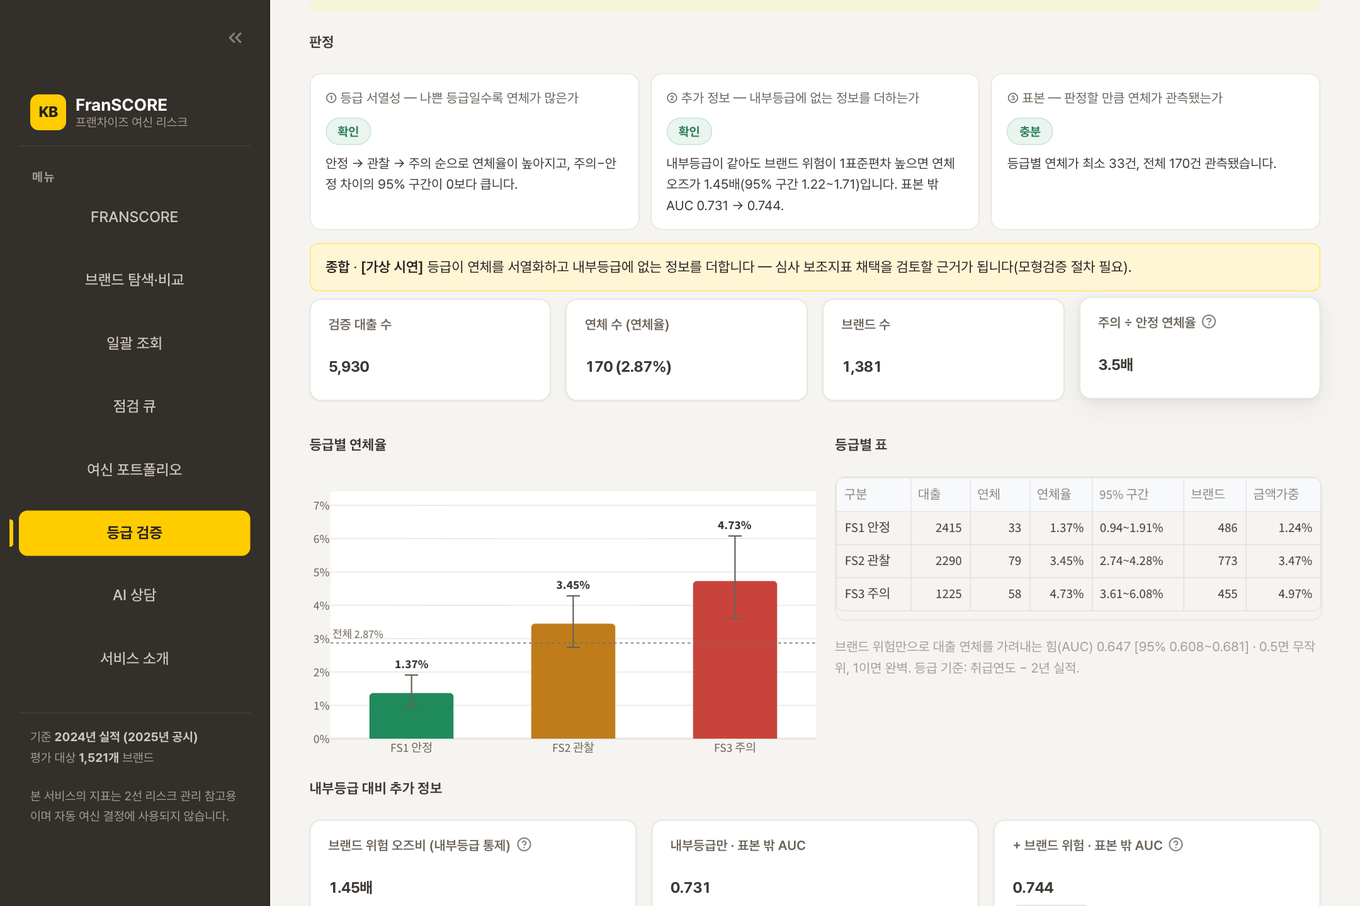
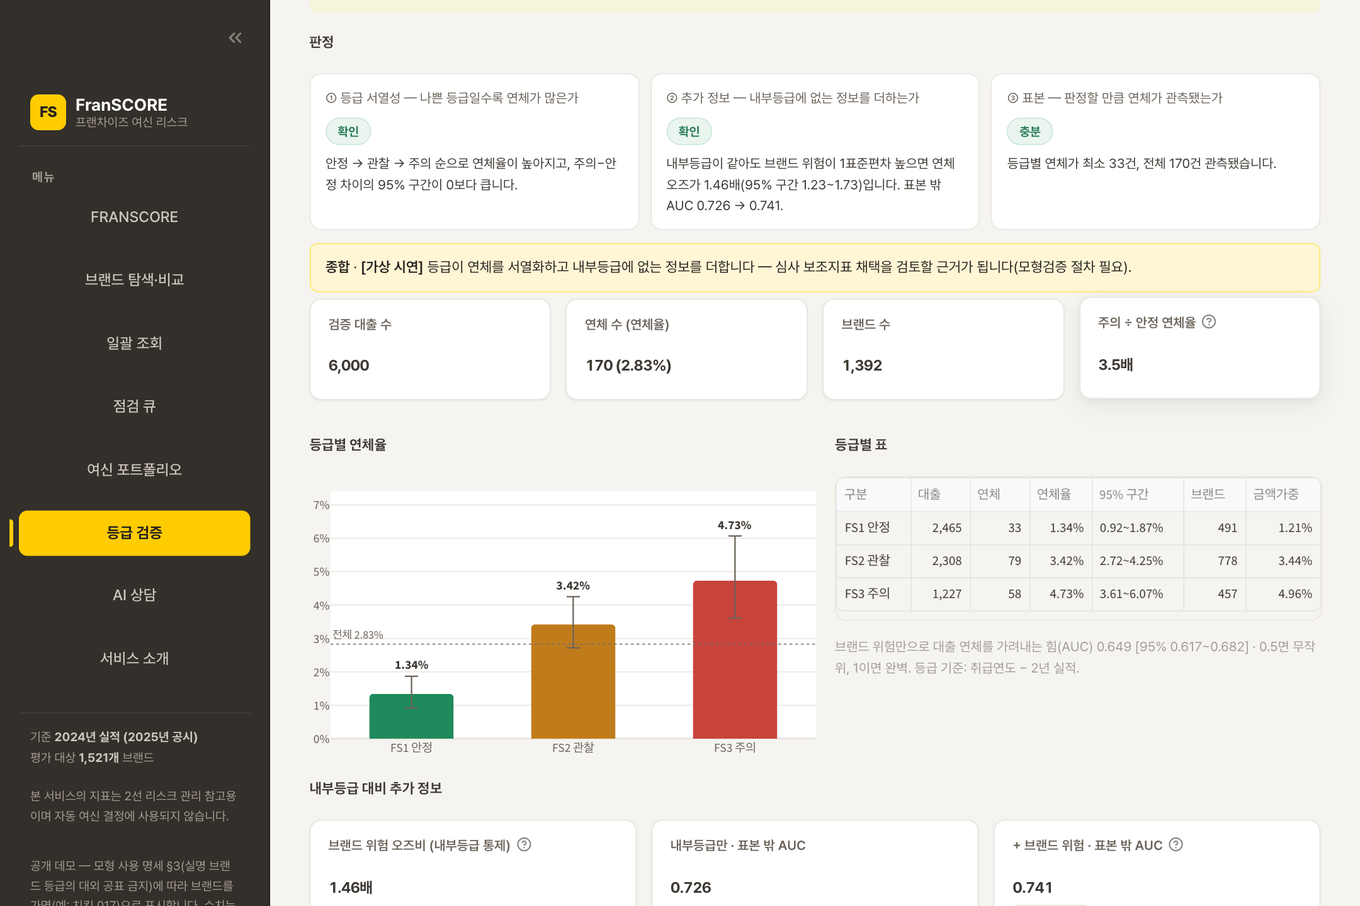
README·문서 최신화 — 월별 폐점 신호, 가명 공개 데모, 화면 교체
- README: 공시 사이를 메우는 월별 폐점 신호 절(공시와 폐점률 순위상관 0.734·순증감 0.843,
  매칭 완전성 98.3%), 가명 고지, 실명 브랜드 언급 제거, 월 1회 갱신 절차, 키 넣는 곳
- 스크린샷 전부 공개 데모(가명) 화면으로 교체, 월별 개점·폐점 그림 추가
- RESULTS ⑤ 월별 신호 타당도·데이터 출처·한계, TECH §8-6·화면 8종·결함 158~162·한계·로드맵,
  OPERATIONS 갱신 절차·월별 폐점 경보, 모형 사용 명세 예시 선택 규칙
- 문서 수치 대조에 월별 신호 타당도 18건 추가 (186 → 204건)

diff --git a/tools/check_doc_numbers.py b/tools/check_doc_numbers.py
@@ -642,6 +642,29 @@ def main() -> int:
     need("뉴스 추출 정확도 규칙(전체)", f"{le['all']['rules']['accuracy']:.3f}", "README")
     need("뉴스 정답셋 건수", f"{le['all']['rules']['n']}건", "README")
 
+    # 월별 신호의 타당도는 README 헤드라인에도 오른다. 신호표를 새로 만들면(월 1회) 판정 분포는
+    # 바뀌지만 이 값들은 validate_localdata.py 를 다시 돌릴 때만 바뀐다 — 그래서 분포는 문서에
+    # 적지 않고, 타당도만 대조한다.
+    lv_p = OUT / "localdata_validation.json"
+    if lv_p.exists():
+        head("⑪ 월별 폐점 신호 — 인허가 ↔ 공시 동시 타당도 (tools/validate_localdata.py)")
+        lv = json.loads(lv_p.read_text(encoding="utf-8"))
+        years = sorted(lv["years"], key=int)
+        for y in years:
+            cv, gv = lv["years"][y]["close_vs_churn"], lv["years"][y]["growth_vs_growth"]
+            docs = ("RESULTS", "TECH", "README") if y == years[-1] else ("RESULTS", "TECH")
+            need(f"{y} 폐점률 순위상관", f"{cv['rho']:.3f}", *docs)
+            need(f"{y} 폐점률 순위상관 CI", f"[{cv['ci_lo']:.3f}, {cv['ci_hi']:.3f}]", "RESULTS", "TECH")
+            need(f"{y} 순증감 순위상관", f"{gv['rho']:.3f}", *docs)
+            need(f"{y} 순증감 순위상관 CI", f"[{gv['ci_lo']:.3f}, {gv['ci_hi']:.3f}]", "RESULTS", "TECH")
+            need(f"{y} 폐점률 비교 브랜드 수", f"{cv['n']:,}개", *docs)
+            need(f"{y} 순증감 비교 브랜드 수", f"{gv['n']:,}개", "RESULTS", "TECH")
+            need(f"{y} 매칭 완전성 중앙값", f"{100 * lv['years'][y]['coverage_median']:.1f}%", *docs)
+        need("인허가 기록 수", thou(lv["n_records"]), "RESULTS", "TECH")
+        need("인허가 기록 수(README 표기)", f"{lv['n_records'] // 10_000:,}만여", "README")
+        need("인허가 매칭 브랜드 수", thou(lv["n_brands_matched"]), "RESULTS", "TECH")
+        need("인허가 매칭 기록 수", thou(lv["n_matched"]), "TECH")
+
     need("OPS 자동대조 건수", f"{_checked + 1}건", "OPS", "README")   # 이 줄 자신을 포함한 수
 
     head("결과")

diff --git a/docs/TECHNICAL_REPORT.md b/docs/TECHNICAL_REPORT.md
@@ -32,7 +32,7 @@ python tools/check_doc_numbers.py
 | 제2부 | 데이터 — 원천 9종 · 엔티티 정합 · 패널 · 커버리지 | 기술 적정성 |
 | 제3부 | 모형 — 라벨 · 피처 · 학습 · 보정 · 등급 · 검증 | 기술 적정성 / 실현 가능성 |
 | 제4부 | AI 활용 — 무엇에 쓰고 무엇에 안 쓰는가 · 정량 평가 | 아이디어의 창의성 및 효과 |
-| 제5부 | 제품 — 화면 5종 · 디자인 시스템 · 접근성 | 활용 가능성 |
+| 제5부 | 제품 — 화면 8종 · 디자인 시스템 · 접근성 | 활용 가능성 |
 | 제6부 | 운영 — 파이프라인 · 배치 · 배포 · 폐쇄망 · 사용 명세 | 개발 계획의 구체성 |
 | 제7부 | 품질 체계 — 스스로 잡은 결함 전수 기록 | 개발 과정의 신뢰성 |
 | 제8부 | 한계 · 로드맵 | 정직성 |
@@ -440,6 +440,39 @@ X_ij = √ρ_B · Z  +  √(ρ_W − ρ_B) · Y_i  +  √(1 − ρ_W) · ε_ij
 
 이 "업종 대비 초과 하락" 구분이 중요하다. **냉면 수요가 준 것인가, 이 브랜드만
 밀리는가** — 여신 판단에서 완전히 다른 이야기다.
+
+### 8-6. 지방행정 인허가 — 연 1회 공시 사이를 메우는 월별 신호
+
+공정위 공시는 연 1회이고 1~2년 늦다(2024년 실적이 2025년 정보공개서로 나온다). 그 사이에
+점포가 빠지는 일은 지자체 식품접객업 인허가에 먼저 찍힌다 — 가맹점도 영업하려면 일반음식점·
+휴게음식점·제과점영업 신고를 하고, 문을 닫으면 폐업 신고를 한다.
+
+| 항목 | 내용 |
+|---|---|
+| 원천 | `file.localdata.go.kr` 전국 파일 3종 — 일반음식점·휴게음식점·제과점영업 (매일 갱신, 2일 전 기준) |
+| 규모 | 인허가 기록 **3,015,391건** → 브랜드에 이어진 기록 234,963건 · **1,460개 브랜드** |
+| 매칭 | 사업장명을 정규화해 브랜드명·통칭과 대조(지점명·법인 표기·쇼핑몰 이름 제거, 동명 브랜드는 가맹점이 많은 쪽) — `src/localdata.py` `match_brands` |
+| 명의 이전 | 같은 주소에서 90일 안에 다시 연 폐업은 폐점이 아니라 명의 이전으로 센다 |
+| 판정 | 최근 3개월 폐업을 전년 같은 3개월과 비교한다. 두 기간 폐업 합 중 올해 몫이 점포 규모 비율을 따르는지 보는 **조건부 이항검정**(두 포아송 비율 비교) — 전년 건수의 표본오차까지 반영한다. 단측 p<0.05 이고 폐업 3건 이상이면 '악화', 반대쪽이면 '개선', 관측 점포 10곳 미만이면 '판단보류' |
+| 일괄 정리 | 직전 달 영업 점포의 30% 이상(최소 20곳)이 한 달에 폐업 처리되면 '악화' 대신 **'확인 필요'** — 상호 변경·재인허가·지자체 일괄 정리일 수 있다 (결함 158) |
+
+**공시와 같은 것을 재는가** — 빠르기만 하고 엉뚱한 것을 재면 쓸모가 없다. 그래서 공시가 있는
+해에 브랜드별로 맞대 봤다(`tools/validate_localdata.py`, 두 원천 모두 가맹점 30곳 이상).
+
+| 실적연도 | 폐점률 순위상관 (인허가 폐업 vs 공시 계약종료+해지) | 순증감 순위상관 | 매칭 완전성 중앙값 |
+|---|---|---|---|
+| 2023 | 0.666 [0.607, 0.719] · 612개 | 0.854 [0.822, 0.881] · 602개 | 94.9% |
+| **2024** | **0.734** [0.689, 0.773] · 725개 | **0.843** [0.810, 0.870] · 725개 | 98.3% |
+
+순증감은 두 해 모두 0.84 이상으로 거의 같은 것을 잰다. 폐점률은 0.67~0.73 — 인허가 폐업과
+가맹계약 종료는 같은 사건이 아니고(계약만 끝나고 독립 영업을 이어 가는 점포, 계약은 남은 채
+휴업하는 점포), 그 차이만큼 낮다. 매칭 완전성(인허가에서 찾은 연말 영업 점포 ÷ 공시 가맹점 수)
+중앙값이 95~98% 라 매칭이 브랜드를 크게 빠뜨리지 않는다.
+
+**쓰는 곳** — 점수에는 넣지 않는다(점수는 연간 공시 모형이고, 이 신호는 검증 표본이 다르다).
+브랜드 상세·참고의견서에 판정과 근거 문장을, 공시 추이 탭에 최근 24개월 개점·폐점 막대를 보이고,
+탐색 화면의 '월별 폐점 악화만' 필터·일괄 조회 열·AI 상담 사실에 쓴다. **점검 큐는 '악화'·'확인 필요'
+브랜드를 등급과 무관하게 올린다** — 공시를 1~2년 기다리지 않고 확인할 대상이다.
 
 ---
 
@@ -1935,15 +1968,18 @@ float32 + char 피처 상한 40,000. **91MB → 67MB**, 상주 263MB → 236MB.
 
 # 제5부 · 제품
 
-## 35. 화면 5종
+## 35. 화면 8종
 
-<https://kb-franscore.streamlit.app>
+<https://kb-franscore.streamlit.app> — 공개 데모는 브랜드를 가명으로 표시한다(§41, `src/public.py`).
 
 | 화면 | 모듈 | 무엇을 하는가 |
 |---|---|---|
-| **FRANSCORE** | `views/franscore.py` | 한눈에 보기 + 브랜드 조회 + 상세 진단 |
-| **점검 큐** | `views/queue.py` | 담당자 배정·처리상태·확인 메모 |
-| **여신 포트폴리오** | `views/portfolio.py` | 집중도·EL·스트레스·꼬리 기여 |
+| **FRANSCORE** | `views/franscore.py` | 한눈에 보기 + 브랜드 조회 + 상세 진단 + 참고의견서 |
+| **브랜드 탐색·비교** | `views/explore.py` | 업종·등급·규모·중대 신호·월별 폐점 신호로 거르고 2~4개를 나란히 비교 |
+| **일괄 조회** | `views/batch.py` + `batch.py` | 신청 목록 → 브랜드 매칭 → 등급·확인 서류, 사업자번호가 있으면 국세청 휴·폐업 |
+| **점검 큐** | `views/queue.py` | 담당자 배정·처리상태·확인 메모·변경 이력. 중대 신호·월별 폐점 신호 브랜드는 등급 무관 편입 |
+| **여신 포트폴리오** | `views/portfolio.py` + `loanbook.py` | 집중도·EL·스트레스·꼬리 기여, 행내 장부 업로드 |
+| **등급 검증** | `views/validate.py` + `delinquency.py` | 은행 연체 자료로 서열성·내부등급 대비 추가 정보 판정 |
 | **AI 상담** | `views/assistant.py` + `chat.py` | 자연어 질의 |
 | **서비스 소개** | `views/about.py` | 두 층 구조 (일반 / 심사역) |
 
@@ -2449,7 +2485,7 @@ python tools/snapshot_drift.py --year 2025
 
 ---
 
-## 43. 스스로 잡은 결함 — 전수 기록 (결함 157건)
+## 43. 스스로 잡은 결함 — 전수 기록 (결함 162건)
 
 아래는 **개발 중 실측으로 발견해 수정한 결함**의 전수 목록이다. 외부 지적이 아니라
 스스로 찾은 것이 대부분이며, 전부 커밋 이력에 남아 있다.
@@ -2641,7 +2677,7 @@ python tools/snapshot_drift.py --year 2025
 | 134 | 두 브랜드 비교 질문의 답변이 **매번 절단** | `finishReason=MAX_TOKENS`, 본문 7,964자를 쓰다 8,000 토큰 예산에서 잘렸다. 잘린 답은 폴백으로 떨어져 화면에 답이 아예 안 나갔다 | 상한을 16,000 으로. ⚠ **무료 일일 한도 소진으로 이 건은 실호출 재확인을 못 했다** — 절단 사실만 실측이고 해소는 미검증이다 |
 | 135 | **평가한 모델을 새 키로는 아예 못 쓴다** — 신규 프로젝트에 제공 중단 | 새로 만든 GCP 프로젝트의 키는 `llm.model` 에 404(*"no longer available to new users"*), 같은 키가 별칭 모델에는 200(실측 2건). 핀을 별칭으로 바꾸면 **평가한 모델과 운영 모델이 갈리고**(별칭의 실체는 시점마다 다르다 — 실측 시점에도 2.5-flash 가 아니었다), 그대로 두면 새 키 사용자는 상담을 못 쓴다 | 둘 중 하나를 고르는 대신 **순서**를 뒀다. 평가 모델을 먼저 시도하고 **등록된 키 전부가 '이 모델 없음'일 때만** 대체 모델로 내려간다(한도·인증 실패로는 안 내려간다). 대체 모델이 답하면 화면이 **어느 모델이 썼는지·성능 근거는 평가 모델 것임**을 밝힌다 |
 
-### J. 여신 실무 관점 재점검 (22건)
+### J. 여신 실무 관점 재점검 (27건)
 
 > 공모전 이후, 은행 여신 실무자가 이 서비스를 실제로 쓴다고 가정하고 다시 훑어 나온 것들이다.
 > 검증 지표는 멀쩡한데 **실무자가 화면을 보자마자 신뢰를 잃는** 종류가 많았다 — 색이 등급과
@@ -2671,6 +2707,11 @@ python tools/snapshot_drift.py --year 2025
 | 155 | **배포 뒤 화면마다 코드 버전이 섞였다** — 목록 머리글은 새 판, 같은 화면의 공통 모듈은 옛 판 | Streamlit Cloud 가 푸시 뒤 진입 스크립트만 새로 읽고 import 된 모듈은 일부만 새로 읽었다. 로컬·테스트는 매번 새 프로세스라 재현되지 않는다 | 코드 서명(src 최종 수정 시각)이 바뀌면 src.* 를 sys.modules 에서 비워 새로 읽음(`src/app.py`), 별도 프로세스 테스트 |
 | 156 | **공개 데모·README 가 자기 명세를 어겼다** — 모형 사용 명세 §3 은 실명 브랜드 등급의 대외 공표를 금지하는데, 공개 앱과 README 스크린샷에 소규모 실명 브랜드가 '주의 32.7%'로 떴다 | 명세는 은행 내부 쓰임을 전제로 썼고, 공개 배포가 곧 대외 공표라는 점을 놓쳤다. 고지문만 붙여 두었다 | 공개 배포는 가명 사본을 읽게 함(`src/public.py`, 설정 경로 한 곳에서 전환) · 로고·기사·검색 색인 제외 · 사본과 공개 모드 전 화면 누출 검사(`tests/test_public.py`) · 문서의 실명 위험 표기도 가명으로 |
 | 157 | 일괄 조회에서 형식이 틀린 사업자번호가 한 건만 섞여도 **국세청 키 안내가 사라짐** | 안내 조건이 '모든 행이 키 없음'이었다. 배포 앱에 실제 목록을 올려 보고 발견 | 키 없어 못 물어본 번호가 하나라도 있으면 안내 |
+| 158 | 월별 폐점 신호가 **행정 일괄 정리를 '악화'로 판정** — 영업 184곳 브랜드가 한 달에 132곳 폐업 | 전국 신호표의 '악화' 목록을 월별 원자료와 대조. 점포가 한 달에 70% 닫히는 일보다 상호 변경·재인허가·일괄 정리일 가능성이 크다 | 직전 달 영업의 30% 이상(최소 20곳)이 한 달에 폐업 처리되면 '확인 필요' + 원자료 확인 안내, 테스트 |
+| 159 | 공시가 한두 해뿐인 브랜드(신규·공시 공백 보정)의 공시 추이 **연도 축이 '2,023.2'** | 점이 적으면 차트 도구가 연속 축으로 보고 소수 눈금을 찍는다. 공개 데모 스크린샷을 다시 찍다 발견 | 연도 축 정수 눈금·양옆 여백(`year_axis`) — 공시 추이·본부 재무·브랜드 비교 |
+| 160 | **공개 모드 예시가 가맹점 수 최상위 브랜드** — 가명이어도 '커피 3,325곳'이면 누구인지 안다 | 예시를 '가맹점 많은 순'으로 골랐다. 실명 목록 검사는 이름만 보므로 통과했다 | 예시·기본 비교를 가맹점 100~499곳 구간에서, 등급을 번갈아 고름 + 테스트 |
+| 161 | 점검 큐 안내문이 "**변경 이력도 없습니다**" — 바로 아래에 변경 이력이 있다 | 변경 이력을 추가하고 안내문을 고치지 않았다 | '변경 이력은 쌓이지만 인증·결재 연동은 없다'로 정정 |
+| 162 | 브랜드 리스크 게이지의 **0%·100% 눈금이 잘려** '5 –', '– 1' 로 보임 | 좌우 여백 12px. 공개 데모 스크린샷 확대 | 여백을 넓힘 |
 
 ---
 
@@ -2827,6 +2868,7 @@ fold 척도 문제를 깨끗이 없애고 Spiegelhalter 도 통과한다. 그러
 | 검색수요 | 292개 브랜드 | 네이버 한도 내 일간 확장 중 |
 | 뉴스 | 9개 브랜드 | 〃 |
 | 로고 | 42.4% / 점포가중 67.7% | Gemini 할당량 (프로젝트 단위) |
+| 월별 폐점 신호 | 사업장명 매칭 — 매칭 완전성 중앙값 98.3%(브랜드별 편차 있음), 식품접객업만 | 상호에 브랜드명이 없는 가맹점은 빠진다 — 정보공개서 원문의 가맹점 주소 목록으로 매칭하면 해소 |
 
 ### 47-2. 모형
 
@@ -2841,8 +2883,8 @@ fold 척도 문제를 깨끗이 없애고 Spiegelhalter 도 통과한다. 그러
 
 ### 47-3. 제품
 
-- 점검 큐 상태는 **클라우드 재배포 시 초기화**된다 (인증·이력·결재 연동 없음).
-  공식 기록은 엑셀 반출로 넘겨야 한다.
+- 점검 큐 상태와 변경 이력은 로컬에서는 파일, 공개 배포에서는 **브라우저 세션에만** 남는다
+  (사용자 인증·결재 연동 없음). 공식 기록은 엑셀 반출로 넘겨야 한다.
 - 여신 익스포저는 **공시 창업비용 × 두 가정**의 추정치다. 절대 금액이 아니라
   **구조를 보는 용도**다.
 - 자동 여신 결정에 사용하지 않는다 (금지 용도).
@@ -2876,11 +2918,11 @@ fold 척도 문제를 깨끗이 없애고 Spiegelhalter 도 통과한다. 그러
 | 부도·연체 라벨 | **검증 절차 구현됨** — 등급 검증 화면(`src/delinquency.py`)으로 먼저 확인하고, 통과하면 라벨을 부도로 교체해 PD 라 부를 수 있다 |
 | 가맹점-브랜드 매핑 | 차주 단위 상관 모형의 분모가 실측이 됨 |
 
-### 48-3. 추가 데이터 경로 (조사 완료, 미실행)
+### 48-3. 추가 데이터 경로
 
 | 경로 | 상태 |
 |---|---|
-| `file.localdata.go.kr` 인허가 (전국 일반음식점 697.6MB·휴게음식점 207.8MB, 매일 갱신) | **모듈 구현** (`src/localdata.py`) — 지역 4곳 실측(19만 건)으로 매칭 정밀도 확인. 전국 파일이나 API 키로 신호표를 만들면 브랜드 상세에 표시 |
+| `file.localdata.go.kr` 인허가 (전국 일반음식점 697.6MB·휴게음식점 207.8MB, 매일 갱신) | **가동** — 전국 파일로 1,460개 브랜드 월별 폐점 신호, 공시와 폐점률 순위상관 0.734 (§8-6). 월 1회 파일 갱신 → CLI 재실행. 자동화는 공공데이터 API(15154916 등) 키로 |
 | 국세청 사업자등록 상태조회 (15081808) | **모듈·화면 연결 구현** (`src/nts.py`, 일괄 조회) — 키·활용신청 뒤 동작 |
 | 공정위 보도자료 PDF (차액가맹금·세부업종 개폐점률) | 미착수 |
 | DART 음차 매칭 확장 | 확정 3/7 — 효과 제한적 |
@@ -2931,6 +2973,9 @@ fold 척도 문제를 깨끗이 없애고 Spiegelhalter 도 통과한다. 그러
 | `outputs/ablation.csv` | 피처 그룹 절제 실험 |
 | `outputs/newbrand_split.csv` | 부분표본 성능 |
 | `outputs/brand_diagnosis_meta.json` | 진단 소견 통계 |
+| `outputs/localdata_signal.csv` | **월별 폐점 신호** — 브랜드별 판정·p값·근거 문장 |
+| `outputs/localdata_flows.csv` | 브랜드×월 개점·폐점·명의 이전·영업 점포 |
+| `outputs/localdata_validation.json` | 인허가 ↔ 공시 동시 타당도 (§8-6) |
 
 ## B. 문서 색인
 
@@ -2990,7 +3035,7 @@ streamlit run src/app.py
    유일한 유의성 주장을 잃어 기각했다.
 5. **넘지 않을 선을 넘지 않았다.** 캡차를 우회하지 않았고, 개인정보 이력을
    재작성하지 않았다.
-6. **틀린 것을 찾으면 되돌렸다.** 결함 157건, 7건의 철회, 4건의 원복이 커밋
+6. **틀린 것을 찾으면 되돌렸다.** 결함 162건, 7건의 철회, 4건의 원복이 커밋
    이력에 그대로 남아 있다.
 
 > 이 문서에 적힌 모든 숫자는 `python tools/check_doc_numbers.py` 로 확인할 수 있다.

diff --git a/docs/RESULTS.md b/docs/RESULTS.md
@@ -2,8 +2,8 @@
 
 > [README](../README.md) 의 요약 수치 뒤에 있는 **전체 표와 근거**입니다.
 > 이 문서의 모든 수치는 `python tools/check_doc_numbers.py` 가 산출물(`outputs/`)과 매번 대조합니다.
-> 개발 전 과정과 스스로 잡은 결함 157건 · 철회한 주장 7건 · 기각한 설계 7건의 전수 기록은
-> [기술설명서](TECHNICAL_REPORT.md) 제7부에 있습니다 (결함 157건).
+> 개발 전 과정과 스스로 잡은 결함 162건 · 철회한 주장 7건 · 기각한 설계 7건의 전수 기록은
+> [기술설명서](TECHNICAL_REPORT.md) 제7부에 있습니다 (결함 162건).
 
 ---
 
@@ -310,6 +310,27 @@ PD는 여신 실무 관행대로 **하한 0.03%(바젤 IRB) · 상한 99%** 로 
 양 끝이 검증표본 경험률로 포화되어 실측에서 "1년 악화확률 100%"가 나왔기 때문이다(단조 변환이라
 순위 기반 지표는 불변, 과신만 억제).
 
+### ⑤ 월별 폐점 신호 — 공시 사이를 메우는 인허가 신호가 공시와 같은 것을 재는가
+
+공시는 연 1회·1~2년 늦다. 그 사이는 전국 지자체 인허가(일반음식점·휴게음식점·제과점영업)
+**3,015,391건**을 사업장명으로 브랜드에 이어 만든 월별 신호로 메운다(**1,460개 브랜드**, 같은 주소
+90일 내 재개업은 명의 이전으로 제외). 최근 3개월 폐업을 전년 같은 3개월과 조건부 이항검정으로
+비교해 '악화'·'개선'·'유지'·'판단보류'로 판정하고, 한 달에 영업 점포의 30% 이상이 한꺼번에
+폐업 처리된 브랜드는 행정 정리일 수 있어 '확인 필요'로 둔다.
+
+공시가 있는 해에 브랜드별로 맞대 본 동시 타당도 (`outputs/localdata_validation.json`,
+두 원천 모두 가맹점 30곳 이상, 95% 부트스트랩 구간):
+
+| 실적연도 | 폐점률 (인허가 폐업 vs 공시 계약종료+해지) | 순증감 | 매칭 완전성 중앙값 |
+|---|---|---|---|
+| 2023 | ρ 0.666 [0.607, 0.719] · 612개 브랜드 | ρ 0.854 [0.822, 0.881] · 602개 브랜드 | 94.9% |
+| **2024** | ρ **0.734** [0.689, 0.773] · 725개 브랜드 | ρ **0.843** [0.810, 0.870] · 725개 브랜드 | **98.3%** |
+
+→ 순증감은 공시와 거의 같은 것을 잰다. 폐점률이 그보다 낮은 것은 인허가 폐업과 가맹계약 종료가
+같은 사건이 아니기 때문이다. 신호는 **점수에 넣지 않고** 화면의 보조 조기경보로만 쓴다 — 점검 큐는
+'악화'·'확인 필요' 브랜드를 등급과 무관하게 올린다. 판정 분포는 매월 바뀌므로 문서에 적지 않는다
+(`outputs/localdata_signal.csv`).
+
 
 ## 5. 진단 소견과 표시 규칙
 
@@ -370,6 +391,8 @@ isotonic 보정은 계단 함수라 **2,510개 중 216개가 42.86%(=3/7)로 같
 | 정보공개서 원문 | `franchise.ftc.go.kr` | 본부 재무·점포 유출입·법 위반·소송·계약해지 사유 (110개 표준 섹션) | 파서 검증 완료 · **정식 키 대기** |
 | Google News RSS | — | 브랜드 뉴스(제목·출처·발행일) | LLM 실시간 신호 (**점수 미투입**) |
 | 네이버 검색 API | `openapi.naver.com` | 브랜드 뉴스(제목 + **본문 요약**) | 뉴스 신호 품질 향상 (선택 · 무료 25,000회/일) |
+| 지방행정 인허가 | `file.localdata.go.kr` | 전국 일반·휴게음식점·제과점영업 인허가·폐업 (매일 갱신) | **월별 폐점 신호** (점수 미투입) |
+| 15081808 | 국세청 사업자등록 상태조회 | 사업자번호별 계속·휴업·폐업 | 일괄 조회의 차주 휴·폐업 확인 (키·활용신청 필요) |
 
 주의: 공시 기준연도(yr)의 수치는 직전 회계연도 실적이므로 **패널 연도 = yr − 1**로 정렬했다
 (`acntgYr` 필드로 교차 확인).
@@ -414,6 +437,8 @@ isotonic 보정은 계단 함수라 **2,510개 중 216개가 42.86%(=3/7)로 같
 4. 엔티티 정합 2.2%는 관리번호 미확보로 명칭 기반 ID 사용(출처를 `id_source` 컬럼에 표기).
 5. 2021년 공시 등록 급증(직영점 요건 완화)으로 2020↔2021 표본 단절 존재.
 6. LightGBM의 우위는 persistence 대비 유의, 강한 기준모형 대비 동등 (위 ② 참조).
+7. 월별 폐점 신호는 사업장명 매칭이라 상호에 브랜드명이 없는 가맹점은 빠진다(매칭 완전성 중앙값
+   98.3%, 브랜드별 편차 있음). 인허가 폐업은 가맹계약 종료와 같은 사건이 아니다(위 ⑤).
 
 ## 라이선스·이용 고지
 

diff --git a/docs/MODEL_USE_SPEC.md b/docs/MODEL_USE_SPEC.md
@@ -64,13 +64,15 @@
 | **대외 공표·마케팅 자료에 브랜드 등급을 개별 명시** | 실명 브랜드에 대한 신용훼손 위험. 내부 참고용이다. |
 
 **공개 배포는 대외 공표로 본다.** 누구나 접속하는 공개 데모와 README·문서가 그렇다. 그래서
-공개 배포에서는 브랜드를 가명(예: `치킨 095`, 본부는 `가맹본부 14587`)으로 표시한다
+공개 배포에서는 브랜드를 가명(예: `치킨 017`, 본부는 `가맹본부 14587`)으로 표시한다
 (`src/public.py`). 브랜드 ID·관리번호·DART 접수번호는 지우고, 로고·기사 원문·검색 색인은 쓰지 않는다.
 실명 조회는 로컬·사내 실행에서만 된다(내부 참고용 — 허용 범위).
 
 - **목적과 한계.** 숫자(가맹점 수·매출·재무)는 실제 공시 그대로라, 공정위 자료와 대조하면 큰
   브랜드는 다시 알아볼 수 있다. 이 처리는 재식별을 막는 익명화가 아니라 **실명 등급을 공표하지 않는
   것**이 목적이다.
+- **예시 선택.** 화면의 예시·기본 비교 브랜드는 가맹점 100~499곳 구간에서 고른다. 업계 최상위
+  규모는 가맹점 수만으로 실명이 짐작되므로, 공개 데모가 먼저 내미는 예시로 쓰지 않는다.
 - **확인 방법.** `tests/test_public.py` 가 공개용 사본 전체와 공개 모드 전 화면을 실명 목록으로
   훑는다. 브랜드명·본부명·브랜드 ID 가 하나라도 나오면 실패한다.
 - **저장소 산출물.** `outputs/` 의 파일은 재현용 연구 자료로 둔다. 화면·README·문서에서는 실명
